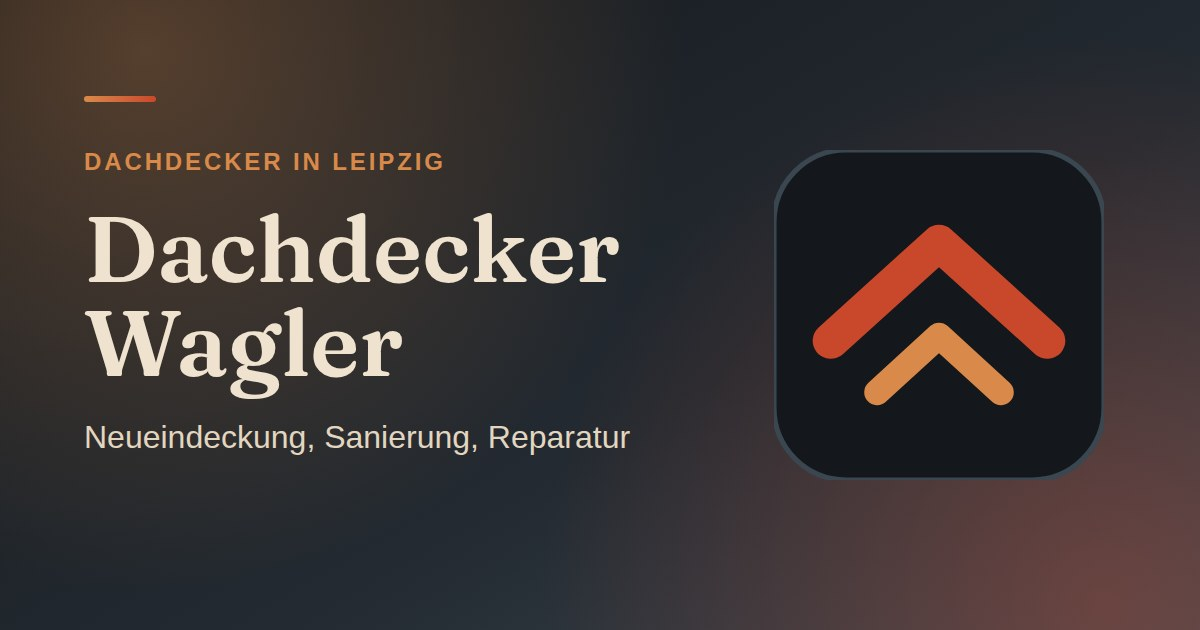
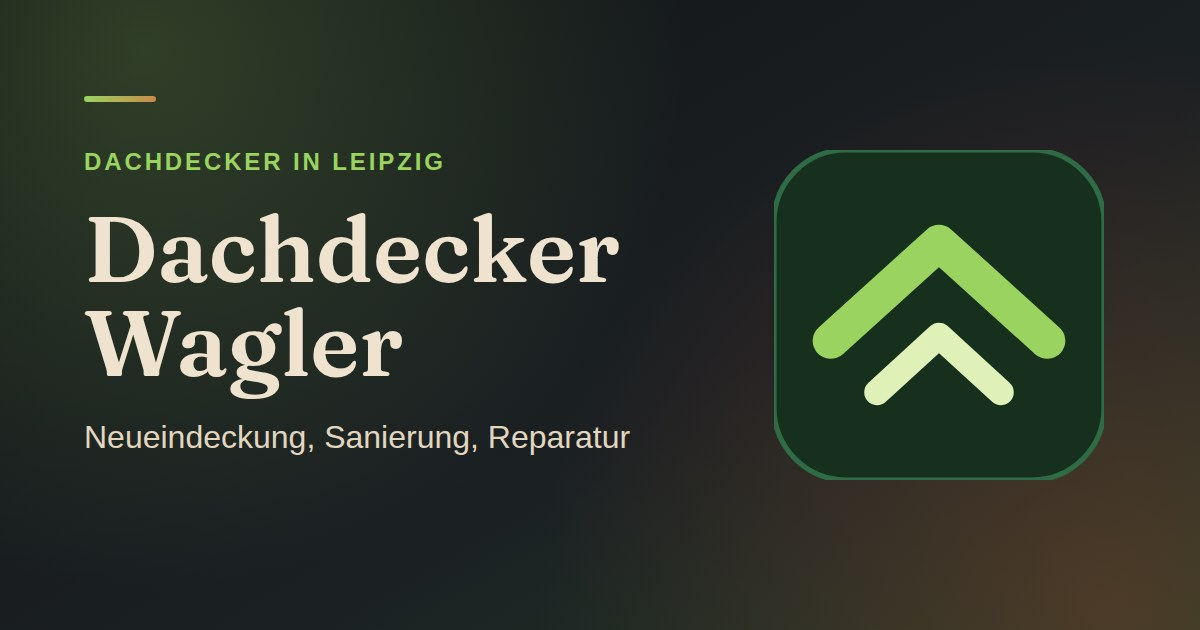
Dachdecker Wagler: interaktive Hausszene, dunkle Haus-Farbwelt mit hellem Grün
Claude-Session: https://claude.ai/code/session_01FxD9XwDGaasw5Yh16VoMkN

diff --git a/kunden/dachdecker-wagler/index.html b/kunden/dachdecker-wagler/index.html
@@ -6,7 +6,7 @@
   <title>Dachdecker Wagler | Dachdecker in Leipzig</title>
   <meta name="description" content="Dachdecker Wagler in Leipzig: Neueindeckung, Dachsanierung, Reparatur, Flachdach und Dachfenster. Jetzt Besichtigung anfragen.">
   <link rel="canonical" href="https://www.dachdecker-wagler.example/">
-  <meta name="theme-color" content="#efe3cf">
+  <meta name="theme-color" content="#14171a">
 
   <link rel="icon" href="/assets/favicon.svg" type="image/svg+xml">
   <link rel="preload" href="/assets/fonts/fraunces-latin-600-normal.woff2" as="font" type="font/woff2" crossorigin>
@@ -21,12 +21,12 @@
   <meta property="og:image" content="https://www.dachdecker-wagler.example/assets/og-image.jpg">
   <meta property="og:image:width" content="1200">
   <meta property="og:image:height" content="630">
-  <meta property="og:image:alt" content="Dachdecker Wagler, Dachdeckerbetrieb in Leipzig, helle Schrift auf Schiefergrau mit zwei Dach-Winkeln in Ziegelrot und Kupfer">
+  <meta property="og:image:alt" content="Dachdecker Wagler, Dachdeckerbetrieb in Leipzig, helle Schrift auf dunklem Grund mit zwei Dach-Winkeln in hellem Grün">
   <meta name="twitter:card" content="summary_large_image">
   <meta name="twitter:title" content="Dachdecker Wagler | Dachdecker in Leipzig">
   <meta name="twitter:description" content="Dachdecker Wagler in Leipzig: Neueindeckung, Dachsanierung, Reparatur, Flachdach und Dachfenster. Jetzt Besichtigung anfragen.">
   <meta name="twitter:image" content="https://www.dachdecker-wagler.example/assets/og-image.jpg">
-  <meta name="twitter:image:alt" content="Dachdecker Wagler, Dachdeckerbetrieb in Leipzig, helle Schrift auf Schiefergrau mit zwei Dach-Winkeln in Ziegelrot und Kupfer">
+  <meta name="twitter:image:alt" content="Dachdecker Wagler, Dachdeckerbetrieb in Leipzig, helle Schrift auf dunklem Grund mit zwei Dach-Winkeln in hellem Grün">
 
   <script type="application/ld+json">
   {
@@ -42,7 +42,7 @@
     "areaServed": { "@type": "City", "name": "Leipzig" }
   }
   </script>
-  <script>document.documentElement.classList.add("js");try{var m=localStorage.getItem("mode");if(!m&&window.matchMedia("(prefers-color-scheme: dark)").matches)m="dark";if(m)document.documentElement.setAttribute("data-mode",m)}catch(e){}</script>
+  <script>document.documentElement.classList.add("js");try{var m=localStorage.getItem("mode");if(!m)m="dark";if(m)document.documentElement.setAttribute("data-mode",m)}catch(e){}</script>
 </head>
 <body>
   <a class="skip" href="#inhalt">Zum Inhalt springen</a>
@@ -66,7 +66,7 @@
   <header class="site-header">
     <div class="wrap">
       <a class="logo" href="/" aria-label="Zur Startseite">
-        <svg viewBox="0 0 64 64" aria-hidden="true" focusable="false"><rect width="64" height="64" rx="14" fill="#14181c"/><path d="M11 37 L32 18 L53 37" fill="none" stroke="#c9482b" stroke-width="7" stroke-linecap="round" stroke-linejoin="round"/><path d="M20 47 L32 36 L44 47" fill="none" stroke="#d98a4a" stroke-width="5" stroke-linecap="round" stroke-linejoin="round"/></svg>
+        <svg viewBox="0 0 64 64" aria-hidden="true" focusable="false"><rect width="64" height="64" rx="14" fill="#16301d"/><path d="M11 37 L32 18 L53 37" fill="none" stroke="#9ad35f" stroke-width="7" stroke-linecap="round" stroke-linejoin="round"/><path d="M20 47 L32 36 L44 47" fill="none" stroke="#dff0b8" stroke-width="5" stroke-linecap="round" stroke-linejoin="round"/></svg>
         <span>
           <span class="logo__name">Dachdecker Wagler</span>
           <span class="logo__sub">Dachdecker in Leipzig</span>
@@ -74,6 +74,7 @@
       </a>
       <nav class="nav" aria-label="Hauptmenü">
         <a class="nav__more" href="#leistungen">Leistungen</a>
+        <a class="nav__more" href="#haus">Haus</a>
         <a class="nav__more" href="#dachaufbau">Dachaufbau</a>
         <a class="nav__more" href="#referenzen">Referenzen</a>
         <a class="nav__more" href="#ablauf">Ablauf</a>
@@ -185,6 +186,25 @@
             <span class="tile__plus" aria-hidden="true"><svg class="icon"><use href="#i-plus"/></svg></span>
           </button>
         </div>
+      </div>
+    </section>
+
+    <!-- Rund ums Haus -->
+    <section class="house-sec" id="haus">
+      <div class="wrap">
+        <div class="section-head reveal">
+          <p class="eyebrow">Rund ums Haus</p>
+          <h2>Wo wir überall helfen.</h2>
+          <p id="house-hint">Berühren Sie ein Bauteil am Haus. Dann sehen Sie, welche Leistungen dazugehören.</p>
+        </div>
+        <div class="roof__grid">
+          <div class="roof__stage reveal">
+            <svg class="hscene" id="hscene" viewBox="0 0 760 520" role="group" aria-label="Haus mit auswählbaren Bauteilen"><defs><linearGradient id="hsky" x1="0" y1="0" x2="0" y2="1"><stop offset="0" stop-color="#1b2530"/><stop offset="0.5" stop-color="#5a4a5c"/><stop offset="1" stop-color="#e39a5b"/></linearGradient><pattern id="rt" width="22" height="14" patternUnits="userSpaceOnUse"><path d="M0 14 q11 -14 22 0" fill="none" stroke="#4d1c11" stroke-width="2" opacity=".6"/></pattern><clipPath id="hclip"><rect width="760" height="520" rx="28"/></clipPath></defs><g clip-path="url(#hclip)"><rect width="760" height="520" fill="url(#hsky)"/><circle cx="650" cy="86" r="62" fill="#f4ead0" opacity=".14"/><circle cx="650" cy="86" r="30" fill="#f4ead0"/><circle cx="80" cy="50" r="2" fill="#fff" opacity=".7"/><circle cx="160" cy="100" r="2" fill="#fff" opacity=".7"/><circle cx="240" cy="40" r="2" fill="#fff" opacity=".7"/><circle cx="330" cy="80" r="2" fill="#fff" opacity=".7"/><circle cx="420" cy="30" r="2" fill="#fff" opacity=".7"/><circle cx="520" cy="70" r="2" fill="#fff" opacity=".7"/><circle cx="560" cy="130" r="2" fill="#fff" opacity=".7"/><circle cx="40" cy="150" r="2" fill="#fff" opacity=".7"/><circle cx="700" cy="170" r="2" fill="#fff" opacity=".7"/><circle cx="610" cy="40" r="2" fill="#fff" opacity=".7"/><path d="M0 400 Q150 340 320 390 T620 380 T760 400 V520 H0Z" fill="#2c4a3a"/><rect y="468" width="760" height="52" fill="#4f8a3f"/><path d="M300 470 L370 470 L420 520 L250 520Z" fill="#a89a82"/><rect x="54" y="366.5" width="12" height="103.5" fill="#5b3f27"/><circle cx="60" cy="327.4" r="69.0" fill="#3f7a3b"/><circle cx="14.0" cy="355.0" r="46.0" fill="#4f8a3f"/><circle cx="106.0" cy="355.0" r="46.0" fill="#4f8a3f"/><circle cx="46.2" cy="304.4" r="36.800000000000004" fill="#7fae5f" opacity=".6"/><rect x="729" y="393.5" width="12" height="76.5" fill="#5b3f27"/><circle cx="735" cy="364.6" r="51.0" fill="#3f7a3b"/><circle cx="701.0" cy="385.0" r="34.0" fill="#4f8a3f"/><circle cx="769.0" cy="385.0" r="34.0" fill="#4f8a3f"/><circle cx="724.8" cy="347.6" r="27.2" fill="#7fae5f" opacity=".6"/><g class="hs-part" data-part="fassade" tabindex="0" role="button" aria-label="Fassade" aria-pressed="false"><rect x="150" y="300" width="370" height="170" fill="#d9c9a5"/><rect x="150" y="452" width="370" height="18" fill="#8d8a82"/><rect x="185" y="345" width="70" height="80" rx="3" fill="#20262b"/><rect x="188" y="348" width="64" height="74" rx="2" fill="#ffd98a"/><line x1="220.0" y1="348" x2="220.0" y2="422" stroke="#20262b" stroke-width="2"/><line x1="188" y1="385.0" x2="252" y2="385.0" stroke="#20262b" stroke-width="2"/><rect x="415" y="345" width="70" height="80" rx="3" fill="#20262b"/><rect x="418" y="348" width="64" height="74" rx="2" fill="#ffd98a"/><line x1="450.0" y1="348" x2="450.0" y2="422" stroke="#20262b" stroke-width="2"/><line x1="418" y1="385.0" x2="482" y2="385.0" stroke="#20262b" stroke-width="2"/><rect x="150" y="300" width="370" height="6" fill="#bfae88"/><g class="hs-pin" transform="translate(168 400)"><circle class="ring" r="10"/><circle r="10" fill="#9ad35f" stroke="#14171a" stroke-width="2.5"/><path d="M0 -4.5V4.5M-4.5 0H4.5" stroke="#14171a" stroke-width="2.6" stroke-linecap="round"/></g></g><g class="hs-part" data-part="flach" tabindex="0" role="button" aria-label="Flachdach am Anbau" aria-pressed="false"><rect x="520" y="372" width="190" height="98" fill="#bba784"/><rect x="545" y="396" width="140" height="74" fill="#8a949c"/><line x1="545" y1="404" x2="685" y2="404" stroke="#6e7880" stroke-width="2"/><line x1="545" y1="416" x2="685" y2="416" stroke="#6e7880" stroke-width="2"/><line x1="545" y1="428" x2="685" y2="428" stroke="#6e7880" stroke-width="2"/><line x1="545" y1="440" x2="685" y2="440" stroke="#6e7880" stroke-width="2"/><line x1="545" y1="452" x2="685" y2="452" stroke="#6e7880" stroke-width="2"/><line x1="545" y1="464" x2="685" y2="464" stroke="#6e7880" stroke-width="2"/><rect x="510" y="358" width="210" height="16" fill="#3b4249"/><rect x="510" y="352" width="210" height="6" fill="#59626a"/><path d="M590 352 a22 14 0 0 1 44 0z" fill="#9fd0e0" stroke="#3b4249" stroke-width="3"/><g class="hs-pin" transform="translate(640 366)"><circle class="ring" r="10"/><circle r="10" fill="#9ad35f" stroke="#14171a" stroke-width="2.5"/><path d="M0 -4.5V4.5M-4.5 0H4.5" stroke="#14171a" stroke-width="2.6" stroke-linecap="round"/></g></g><g class="hs-part" data-part="dach" tabindex="0" role="button" aria-label="Dach" aria-pressed="false"><polygon points="118,302 335,138 552,302" fill="#8a3b2a"/><polygon points="118,302 335,138 552,302" fill="url(#rt)"/><polyline points="118,302 335,138 552,302" fill="none" stroke="#5e2416" stroke-width="7" stroke-linejoin="round"/><g class="hs-pin" transform="translate(470 268)"><circle class="ring" r="10"/><circle r="10" fill="#9ad35f" stroke="#14171a" stroke-width="2.5"/><path d="M0 -4.5V4.5M-4.5 0H4.5" stroke="#14171a" stroke-width="2.6" stroke-linecap="round"/></g></g><g class="hs-part" data-part="gaube" tabindex="0" role="button" aria-label="Dachgaube" aria-pressed="false"><rect x="215" y="236" width="76" height="62" fill="#d9c9a5"/><rect x="232" y="250" width="42" height="40" rx="3" fill="#20262b"/><rect x="235" y="253" width="36" height="34" rx="2" fill="#ffd98a"/><line x1="253.0" y1="253" x2="253.0" y2="287" stroke="#20262b" stroke-width="2"/><line x1="235" y1="270.0" x2="271" y2="270.0" stroke="#20262b" stroke-width="2"/><polygon points="203,238 253,198 303,238" fill="#8a3b2a"/><polygon points="203,238 253,198 303,238" fill="url(#rt)"/><polyline points="203,238 253,198 303,238" fill="none" stroke="#5e2416" stroke-width="5" stroke-linejoin="round"/><g class="hs-pin" transform="translate(253 266)"><circle class="ring" r="10"/><circle r="10" fill="#9ad35f" stroke="#14171a" stroke-width="2.5"/><path d="M0 -4.5V4.5M-4.5 0H4.5" stroke="#14171a" stroke-width="2.6" stroke-linecap="round"/></g></g><g class="hs-part" data-part="fenster" tabindex="0" role="button" aria-label="Dachfenster" aria-pressed="false"><rect x="350" y="214" width="38" height="30" rx="3" fill="#20262b"/><rect x="354" y="218" width="30" height="22" rx="2" fill="#9fd0e0"/><path d="M354 240 L366 218 H374 L362 240Z" fill="#fff" opacity=".45"/><rect x="350" y="256" width="38" height="30" rx="3" fill="#20262b"/><rect x="354" y="260" width="30" height="22" rx="2" fill="#9fd0e0"/><path d="M354 282 L366 260 H374 L362 282Z" fill="#fff" opacity=".45"/><g class="hs-pin" transform="translate(369 236)"><circle class="ring" r="10"/><circle r="10" fill="#9ad35f" stroke="#14171a" stroke-width="2.5"/><path d="M0 -4.5V4.5M-4.5 0H4.5" stroke="#14171a" stroke-width="2.6" stroke-linecap="round"/></g></g><g class="hs-part" data-part="kamin" tabindex="0" role="button" aria-label="Schornstein" aria-pressed="false"><rect x="430" y="168" width="34" height="98" fill="#8f3b2b"/><line x1="430" y1="178" x2="464" y2="178" stroke="#5e2416" stroke-width="2"/><line x1="430" y1="192" x2="464" y2="192" stroke="#5e2416" stroke-width="2"/><line x1="430" y1="206" x2="464" y2="206" stroke="#5e2416" stroke-width="2"/><line x1="430" y1="220" x2="464" y2="220" stroke="#5e2416" stroke-width="2"/><line x1="430" y1="234" x2="464" y2="234" stroke="#5e2416" stroke-width="2"/><line x1="430" y1="248" x2="464" y2="248" stroke="#5e2416" stroke-width="2"/><rect x="424" y="160" width="46" height="12" fill="#3b4249"/><g class="hs-pin" transform="translate(447 214)"><circle class="ring" r="10"/><circle r="10" fill="#9ad35f" stroke="#14171a" stroke-width="2.5"/><path d="M0 -4.5V4.5M-4.5 0H4.5" stroke="#14171a" stroke-width="2.6" stroke-linecap="round"/></g></g><g class="hs-part" data-part="rinne" tabindex="0" role="button" aria-label="Dachrinne" aria-pressed="false"><path d="M112 306 H558" stroke="#aeb7bd" stroke-width="9" stroke-linecap="round"/><rect x="138" y="306" width="9" height="164" fill="#aeb7bd"/><rect x="134" y="460" width="17" height="10" fill="#8d979e"/><g class="hs-pin" transform="translate(520 304)"><circle class="ring" r="10"/><circle r="10" fill="#9ad35f" stroke="#14171a" stroke-width="2.5"/><path d="M0 -4.5V4.5M-4.5 0H4.5" stroke="#14171a" stroke-width="2.6" stroke-linecap="round"/></g></g><g class="hs-part" data-part="vordach" tabindex="0" role="button" aria-label="Vordach und Tür" aria-pressed="false"><rect x="300" y="395" width="70" height="75" rx="4" fill="#7a4b2d"/><rect x="312" y="407" width="46" height="26" rx="2" fill="#ffd98a" opacity=".85"/><circle cx="360" cy="440" r="3" fill="#e3b788"/><polygon points="282,392 335,352 388,392" fill="#8a3b2a"/><polygon points="282,392 335,352 388,392" fill="url(#rt)"/><polyline points="282,392 335,352 388,392" fill="none" stroke="#5e2416" stroke-width="5" stroke-linejoin="round"/><g class="hs-pin" transform="translate(335 370)"><circle class="ring" r="10"/><circle r="10" fill="#9ad35f" stroke="#14171a" stroke-width="2.5"/><path d="M0 -4.5V4.5M-4.5 0H4.5" stroke="#14171a" stroke-width="2.6" stroke-linecap="round"/></g></g><path class="link" d="M0 0 C0 0 0 0 0 0"/></g></svg>
+            <div class="ltabs" id="htabs" role="group" aria-label="Bauteile auswählen"><button type="button" class="ltab" style="--c:#9ad35f" aria-pressed="false"><i></i>Dach</button><button type="button" class="ltab" style="--c:#9ad35f" aria-pressed="false"><i></i>Schornstein</button><button type="button" class="ltab" style="--c:#9ad35f" aria-pressed="false"><i></i>Dachgaube</button><button type="button" class="ltab" style="--c:#9ad35f" aria-pressed="false"><i></i>Dachfenster</button><button type="button" class="ltab" style="--c:#9ad35f" aria-pressed="false"><i></i>Dachrinne</button><button type="button" class="ltab" style="--c:#9ad35f" aria-pressed="false"><i></i>Fassade</button><button type="button" class="ltab" style="--c:#9ad35f" aria-pressed="false"><i></i>Vordach und Tür</button><button type="button" class="ltab" style="--c:#9ad35f" aria-pressed="false"><i></i>Flachdach am Anbau</button></div>
+          </div>
+          <div class="roof__panel reveal" id="house-panel" aria-live="polite"><p class="small">Rund ums Haus</p><h3>Acht Bauteile, ein Betrieb.</h3><p>Vom Dach bis zum Vordach. Wählen Sie ein Bauteil am Haus, dann zeige ich Ihnen, was dazugehört.</p></div>
+        </div>
+        <p class="hnote reveal">Leistungen mit der Marke „Leistung" gehören zu den fünf Hauptarbeiten. Die mit „Beispiel" sind von mir erfunden und zeigen nur, wie die Seite später funktioniert.</p>
       </div>
     </section>
 

diff --git a/kunden/dachdecker-wagler/assets/script.js b/kunden/dachdecker-wagler/assets/script.js
@@ -126,7 +126,7 @@
       modeBtn.setAttribute("aria-label", dark ? "Helle Darstellung einschalten" : "Dunkle Darstellung einschalten");
     }
     var meta = document.querySelector('meta[name="theme-color"]');
-    if (meta) meta.setAttribute("content", dark ? "#101417" : "#efe3cf");
+    if (meta) meta.setAttribute("content", dark ? "#14171a" : "#d6c9b0");
   }
   syncMode();
   if (modeBtn) modeBtn.addEventListener("click", function () {
@@ -410,7 +410,7 @@
       { n: "Sparren und Dämmung", c: "#d9a93a", t: "Das tragende Gerüst", d: "Die Sparren tragen das Dach. Dazwischen sitzt die Dämmung, die Wärme im Haus hält.", works: ["Dachsanierung", "Dachfenster"] },
       { n: "Dampfbremse", c: "#8d99a2", t: "Dampfbremse und Innenausbau", d: "Die Dampfbremse hält feuchte Raumluft aus der Dämmung fern. Innen schließt die Verkleidung den Raum ab.", works: ["Dachsanierung", "Dachfenster"] }
     ];
-    var slabs = $$(".slab", layersSvg), ltabs = $$(".ltab"), panelEl = $("#roof-panel");
+    var slabs = $$(".slab", layersSvg), ltabs = $$("#dachaufbau .ltab"), panelEl = $("#roof-panel");
     var linkEl = $(".link", layersSvg), roofHint = $("#roof-hint");
     if (roofHint) roofHint.textContent = finePointer
       ? "Fahren Sie mit der Maus über eine Schicht. Dann sehen Sie, wofür sie da ist und welche Arbeiten dazugehören."
@@ -455,6 +455,65 @@
       s.addEventListener("keydown", function (e) { if (e.key === "Enter" || e.key === " ") { e.preventDefault(); showLayer(i); } });
     });
     ltabs.forEach(function (t, i) { t.addEventListener("click", function () { showLayer(i); }); });
+  }
+
+  // ---------- Rund ums Haus (interaktive Szene) ----------
+  var hs = $("#hscene");
+  if (hs) {
+    var R = function (t, area, real) { return { t: t, area: area, real: real }; };
+    var hData = [
+      { n: "Dach", ax: 470, ay: 268, d: "Das Dach schützt das ganze Haus. Hier arbeiten wir am häufigsten.", s: [R("Neueindeckung", "Neueindeckung", true), R("Dachsanierung", "Dachsanierung", true), R("Reparatur", "Reparatur", true), R("Moosentfernung", "Reparatur", false)] },
+      { n: "Schornstein", ax: 447, ay: 214, d: "Die Anschlüsse am Schornstein sind eine häufige Schwachstelle für Wasser.", s: [R("Reparatur", "Reparatur", true), R("Schornsteinkopf neu einfassen", "Reparatur", false), R("Anschlussbleche erneuern", "Reparatur", false)] },
+      { n: "Dachgaube", ax: 253, ay: 266, d: "Gauben bringen Platz und Licht unters Dach, haben aber viele Anschlüsse.", s: [R("Dachsanierung", "Dachsanierung", true), R("Gaube neu eindecken", "Dachsanierung", false), R("Gaubenfenster austauschen", "Dachfenster", false)] },
+      { n: "Dachfenster", ax: 369, ay: 236, d: "Dachfenster holen Tageslicht in den Dachraum.", s: [R("Neues Dachfenster einbauen", "Dachfenster", true), R("Altes Fenster austauschen", "Dachfenster", true), R("Verdunkelung nachrüsten", "Dachfenster", false)] },
+      { n: "Dachrinne", ax: 520, ay: 304, d: "Rinne und Fallrohr leiten das Wasser vom Haus weg.", s: [R("Dachrinne montieren", "Reparatur", false), R("Fallrohr erneuern", "Reparatur", false), R("Rinne reinigen", "Reparatur", false)] },
+      { n: "Fassade", ax: 168, ay: 400, d: "Eine dichte Verbindung zwischen Wand und Dach hält Feuchtigkeit draußen.", s: [R("Anschluss Dach und Wand", "Dachsanierung", false), R("Fassadenbekleidung aus Schiefer", "Noch offen", false), R("Wetterschutz an der Giebelwand", "Noch offen", false)] },
+      { n: "Vordach und Tür", ax: 335, ay: 370, d: "Das Vordach schützt den Eingang vor Regen.", s: [R("Reparatur", "Reparatur", true), R("Vordach neu eindecken", "Neueindeckung", false), R("Anschluss am Mauerwerk abdichten", "Reparatur", false)] },
+      { n: "Flachdach am Anbau", ax: 640, ay: 366, d: "Bei Garagen und Anbauten kommt es auf die Abdichtung an.", s: [R("Flachdach abdichten", "Flachdach", true), R("Abdichtung erneuern", "Flachdach", true), R("Dachbegrünung", "Flachdach", false), R("Lichtkuppel einbauen", "Dachfenster", false)] }
+    ];
+    var hParts = ["dach", "kamin", "gaube", "fenster", "rinne", "fassade", "vordach", "flach"].map(function (k) { return $('.hs-part[data-part="' + k + '"]', hs); }), hTabs = $$("#htabs .ltab"), hPanel = $("#house-panel"), hLink = $(".link", hs), hHint = $("#house-hint");
+    if (hHint) hHint.textContent = finePointer
+      ? "Fahren Sie mit der Maus über ein Bauteil am Haus. Dann sehen Sie, welche Leistungen dazugehören."
+      : "Tippen Sie auf ein Bauteil am Haus. Dann sehen Sie, welche Leistungen dazugehören.";
+    var showPart = function (i) {
+      var d = hData[i];
+      hParts.forEach(function (s, k) { s.classList.toggle("is-active", k === i); s.setAttribute("aria-pressed", k === i ? "true" : "false"); });
+      hTabs.forEach(function (t, k) { t.setAttribute("aria-pressed", k === i ? "true" : "false"); });
+      hs.classList.add("has-active");
+      hPanel.innerHTML = "";
+      var box = document.createElement("div"); box.className = "swap";
+      var tag = document.createElement("span"); tag.className = "tag"; tag.textContent = "Bauteil " + (i + 1) + " von " + hData.length;
+      tag.style.setProperty("--c", "#9ad35f"); tag.style.setProperty("--t", "#14171a");
+      var h = document.createElement("h3"); h.textContent = d.n;
+      var p = document.createElement("p"); p.textContent = d.d;
+      var sm = document.createElement("p"); sm.className = "small"; sm.textContent = "Leistungen an diesem Bauteil";
+      var ul = document.createElement("ul"); ul.className = "works";
+      d.s.forEach(function (it, k) {
+        var li = document.createElement("li"), b = document.createElement("button");
+        b.type = "button"; b.className = "work"; b.style.setProperty("--c", it.real ? "#9ad35f" : "#c98b4a"); b.style.setProperty("--i", k);
+        b.innerHTML = "<span></span><span class=\"bd " + (it.real ? "bd--real" : "bd--ex") + "\">" + (it.real ? "Leistung" : "Beispiel") + "</span><svg class=\"icon\" aria-hidden=\"true\"><use href=\"#i-arrow\"/></svg>";
+        b.firstChild.textContent = it.t;
+        b.addEventListener("click", function () {
+          prefill(it.area, "Hallo,\nich interessiere mich für: " + it.t + " (" + d.n + ").\n");
+          var kk = $("#kontakt"); if (kk) kk.scrollIntoView({ behavior: reduceMotion ? "auto" : "smooth" });
+        });
+        li.appendChild(b); ul.appendChild(li);
+      });
+      [tag, h, p, sm, ul].forEach(function (x) { box.appendChild(x); });
+      hPanel.appendChild(box);
+      if (hLink) {
+        hLink.setAttribute("d", "M" + d.ax + " " + d.ay + " C" + (d.ax + 120) + " " + d.ay + " 640 60 760 60");
+        var len = Math.ceil(hLink.getTotalLength()) + 2;
+        hLink.style.setProperty("--len", len);
+        hLink.classList.remove("is-on"); void hLink.getBoundingClientRect(); hLink.classList.add("is-on");
+      }
+    };
+    hParts.forEach(function (s, i) {
+      s.addEventListener("pointerenter", function (e) { if (e.pointerType === "mouse") showPart(i); });
+      s.addEventListener("click", function () { showPart(i); });
+      s.addEventListener("keydown", function (e) { if (e.key === "Enter" || e.key === " ") { e.preventDefault(); showPart(i); } });
+    });
+    hTabs.forEach(function (t, i) { t.addEventListener("click", function () { showPart(i); }); });
   }
 
   // ---------- Referenzen: Filter und Großansicht ----------

diff --git a/kunden/dachdecker-wagler/assets/style.css b/kunden/dachdecker-wagler/assets/style.css
@@ -598,3 +598,60 @@ button.float:hover { background: rgba(255, 255, 255, 0.24); }
 button.float:hover { background: rgba(20, 24, 28, 0.8); }
 .logo__name { white-space: nowrap; }
 @media (max-width: 480px) { .logo__name { font-size: 1rem; } .logo svg { width: 30px; height: 30px; } .site-header .wrap { gap: 8px; } }
+
+
+/* ---------- Farbwelt "Haus": Backstein, Putz, Schiefer, Holz und helles Grün (Logo) ---------- */
+:root {
+  --leaf: #9ad35f; --leaf-deep: #5f9a3a;
+  --night: #14171a; --night-2: #1f2428;
+  --emerald: #2f6b45; --emerald-deep: #1e4a2f; --mint: #9ad35f;
+  --coral: #b8452b; --coral-deep: #8a2f1d;
+  --honey: #c98b4a; --honey-soft: #e3b788;
+  --sand: #d6c9b0; --paper: #e5dbc7;
+  --ink-soft: #3f484f;
+  --link: #1e4a2f;
+  --grad-green: linear-gradient(145deg, #1e4a2f 0%, #2f6b45 100%);
+}
+:root[data-mode="dark"] {
+  --sand: #14171a; --paper: #1b1f22; --card: #252b2f;
+  --ink: #eee5d4; --ink-soft: #b6bec3; --line: rgba(238, 229, 212, 0.2);
+  --night: #0b0d0f; --night-2: #171b1e;
+  --glass: rgba(20, 23, 26, 0.72); --glass-strong: rgba(20, 23, 26, 0.9);
+  --accent-text: #ee8f6e; --link: #9ad35f;
+}
+.progress { background: linear-gradient(90deg, var(--leaf), var(--honey), var(--coral)); }
+.chip-eyebrow i { background: var(--leaf); box-shadow: 0 0 0 4px rgba(154, 211, 95, 0.25); }
+.offer .eyebrow, .contact .eyebrow { color: var(--leaf); }
+.offer::before { background: radial-gradient(900px circle at 85% -10%, rgba(154, 211, 95, 0.16), transparent 55%), radial-gradient(700px circle at 0% 100%, rgba(184, 69, 43, 0.22), transparent 55%); }
+.contact::before { background: radial-gradient(800px circle at 10% 0%, rgba(154, 211, 95, 0.2), transparent 55%), radial-gradient(700px circle at 100% 100%, rgba(201, 139, 74, 0.2), transparent 50%), radial-gradient(500px circle at 70% 10%, rgba(184, 69, 43, 0.2), transparent 50%); }
+.contact__facts strong { color: var(--leaf); }
+.contact__facts a:hover, .contact__facts .tel:hover { color: var(--leaf); }
+.field input:focus, .field select:focus, .field textarea:focus { box-shadow: 0 0 0 4px rgba(154, 211, 95, 0.3); border-color: var(--leaf-deep); }
+.step.is-active::before { background: var(--leaf); border-color: var(--leaf); }
+.sheet__list .icon { color: var(--leaf-deep); }
+:root[data-mode="dark"] .sheet__list .icon, :root[data-mode="dark"] .work .icon { color: var(--leaf); }
+.tile--green .tile__plus { background: var(--leaf); color: #14171a; }
+.theme-toggle:hover { background: rgba(154, 211, 95, 0.25); }
+.nav .nav__pill:hover, .nav .nav__pill.is-current { background: var(--emerald); color: #fff; }
+.logo svg { filter: drop-shadow(0 4px 10px rgba(154, 211, 95, 0.25)); }
+.house-sec { background: var(--sand); }
+.hnote { max-width: 46em; margin: 36px auto 0; text-align: center; color: var(--ink-soft); font-size: 0.92rem; }
+
+/* ---------- Interaktive Hausszene ---------- */
+.hscene { display: block; width: 100%; height: auto; overflow: visible; border-radius: 28px; box-shadow: 0 40px 70px -34px rgba(0, 0, 0, 0.7); }
+.hs-part { cursor: pointer; outline: none; transition: opacity 0.3s ease, filter 0.3s ease; }
+.hscene.has-active .hs-part:not(.is-active) { filter: brightness(0.55) saturate(0.7); }
+.hs-part:hover, .hs-part.is-active { filter: drop-shadow(0 0 7px rgba(154, 211, 95, 0.95)); }
+.hs-part:focus-visible .hs-pin circle:nth-child(2) { stroke: #fff; stroke-width: 4; }
+.hs-pin { transition: transform 0.4s var(--spring); }
+.hs-pin .ring { fill: none; stroke: #9ad35f; stroke-width: 2; transform-box: fill-box; transform-origin: center; animation: pinring 2.6s ease-out infinite; }
+@keyframes pinring { 0% { transform: scale(0.8); opacity: 0.9; } 100% { transform: scale(2.4); opacity: 0; } }
+.hscene .link { fill: none; stroke: #9ad35f; stroke-width: 3.5; stroke-linecap: round; stroke-dasharray: var(--len, 300); stroke-dashoffset: var(--len, 300); transition: stroke-dashoffset 0.9s var(--ease); filter: drop-shadow(0 0 5px #9ad35f); display: none; }
+.hscene .link.is-on { stroke-dashoffset: 0; }
+@media (min-width: 900px) { .hscene .link { display: block; } }
+.work .bd { font-size: 0.68rem; font-weight: 700; letter-spacing: 0.06em; text-transform: uppercase; padding: 2px 8px; border-radius: 999px; }
+.bd--real { background: var(--leaf); color: #14171a; }
+.bd--ex { background: var(--soft-fill); color: var(--ink-soft); }
+@media (min-width: 1140px) { .nav__more { display: inline-block; } }
+@media (max-width: 1139px) { .nav__more { display: none; } }
+@media (prefers-reduced-motion: reduce) { .hs-pin .ring { animation: none; } }

diff --git a/kunden/dachdecker-wagler/datenschutz.html b/kunden/dachdecker-wagler/datenschutz.html
@@ -6,7 +6,7 @@
   <title>Datenschutzerklärung | Dachdecker Wagler</title>
   <meta name="description" content="Datenschutzerklärung von Dachdecker Wagler, Dachdeckerbetrieb in Leipzig: welche Daten beim Besuch der Seite und beim Kontaktformular verarbeitet werden (Beispieltext).">
   <link rel="canonical" href="https://www.dachdecker-wagler.example/datenschutz">
-  <meta name="theme-color" content="#efe3cf">
+  <meta name="theme-color" content="#14171a">
 
   <link rel="icon" href="/assets/favicon.svg" type="image/svg+xml">
   <link rel="preload" href="/assets/fonts/fraunces-latin-600-normal.woff2" as="font" type="font/woff2" crossorigin>
@@ -21,17 +21,17 @@
   <meta property="og:image" content="https://www.dachdecker-wagler.example/assets/og-image.jpg">
   <meta property="og:image:width" content="1200">
   <meta property="og:image:height" content="630">
-  <meta property="og:image:alt" content="Dachdecker Wagler, Dachdeckerbetrieb in Leipzig, helle Schrift auf Schiefergrau mit zwei Dach-Winkeln in Ziegelrot und Kupfer">
+  <meta property="og:image:alt" content="Dachdecker Wagler, Dachdeckerbetrieb in Leipzig, helle Schrift auf dunklem Grund mit zwei Dach-Winkeln in hellem Grün">
   <meta name="twitter:card" content="summary_large_image">
   <meta name="twitter:title" content="Datenschutzerklärung | Dachdecker Wagler">
   <meta name="twitter:description" content="Datenschutzerklärung von Dachdecker Wagler, Dachdeckerbetrieb in Leipzig: welche Daten beim Besuch der Seite und beim Kontaktformular verarbeitet werden (Beispieltext).">
   <meta name="twitter:image" content="https://www.dachdecker-wagler.example/assets/og-image.jpg">
-  <meta name="twitter:image:alt" content="Dachdecker Wagler, Dachdeckerbetrieb in Leipzig, helle Schrift auf Schiefergrau mit zwei Dach-Winkeln in Ziegelrot und Kupfer">
+  <meta name="twitter:image:alt" content="Dachdecker Wagler, Dachdeckerbetrieb in Leipzig, helle Schrift auf dunklem Grund mit zwei Dach-Winkeln in hellem Grün">
 
   <script type="application/ld+json">
   { "@context": "https://schema.org", "@type": "WebPage", "name": "Datenschutzerklärung", "url": "https://www.dachdecker-wagler.example/datenschutz", "inLanguage": "de", "isPartOf": { "@type": "WebSite", "name": "Dachdecker Wagler", "url": "https://www.dachdecker-wagler.example/" } }
   </script>
-  <script>document.documentElement.classList.add("js");try{var m=localStorage.getItem("mode");if(!m&&window.matchMedia("(prefers-color-scheme: dark)").matches)m="dark";if(m)document.documentElement.setAttribute("data-mode",m)}catch(e){}</script>
+  <script>document.documentElement.classList.add("js");try{var m=localStorage.getItem("mode");if(!m)m="dark";if(m)document.documentElement.setAttribute("data-mode",m)}catch(e){}</script>
 </head>
 <body>
   <a class="skip" href="#inhalt">Zum Inhalt springen</a>
@@ -40,7 +40,7 @@
   <header class="site-header">
     <div class="wrap">
       <a class="logo" href="/" aria-label="Zur Startseite">
-        <svg viewBox="0 0 64 64" aria-hidden="true" focusable="false"><rect width="64" height="64" rx="14" fill="#14181c"/><path d="M11 37 L32 18 L53 37" fill="none" stroke="#c9482b" stroke-width="7" stroke-linecap="round" stroke-linejoin="round"/><path d="M20 47 L32 36 L44 47" fill="none" stroke="#d98a4a" stroke-width="5" stroke-linecap="round" stroke-linejoin="round"/></svg>
+        <svg viewBox="0 0 64 64" aria-hidden="true" focusable="false"><rect width="64" height="64" rx="14" fill="#16301d"/><path d="M11 37 L32 18 L53 37" fill="none" stroke="#9ad35f" stroke-width="7" stroke-linecap="round" stroke-linejoin="round"/><path d="M20 47 L32 36 L44 47" fill="none" stroke="#dff0b8" stroke-width="5" stroke-linecap="round" stroke-linejoin="round"/></svg>
         <span>
           <span class="logo__name">Dachdecker Wagler</span>
           <span class="logo__sub">Dachdecker in Leipzig</span>
@@ -48,6 +48,7 @@
       </a>
       <nav class="nav" aria-label="Hauptmenü">
         <a class="nav__more" href="/#leistungen">Leistungen</a>
+        <a class="nav__more" href="/#haus">Haus</a>
         <a class="nav__more" href="/#dachaufbau">Dachaufbau</a>
         <a class="nav__more" href="/#referenzen">Referenzen</a>
         <a class="nav__more" href="/#ablauf">Ablauf</a>

diff --git a/kunden/dachdecker-wagler/impressum.html b/kunden/dachdecker-wagler/impressum.html
@@ -6,7 +6,7 @@
   <title>Impressum | Dachdecker Wagler</title>
   <meta name="description" content="Impressum und Anbieterkennzeichnung von Dachdecker Wagler, Dachdeckerbetrieb in Leipzig (Beispielangaben).">
   <link rel="canonical" href="https://www.dachdecker-wagler.example/impressum">
-  <meta name="theme-color" content="#efe3cf">
+  <meta name="theme-color" content="#14171a">
 
   <link rel="icon" href="/assets/favicon.svg" type="image/svg+xml">
   <link rel="preload" href="/assets/fonts/fraunces-latin-600-normal.woff2" as="font" type="font/woff2" crossorigin>
@@ -21,17 +21,17 @@
   <meta property="og:image" content="https://www.dachdecker-wagler.example/assets/og-image.jpg">
   <meta property="og:image:width" content="1200">
   <meta property="og:image:height" content="630">
-  <meta property="og:image:alt" content="Dachdecker Wagler, Dachdeckerbetrieb in Leipzig, helle Schrift auf Schiefergrau mit zwei Dach-Winkeln in Ziegelrot und Kupfer">
+  <meta property="og:image:alt" content="Dachdecker Wagler, Dachdeckerbetrieb in Leipzig, helle Schrift auf dunklem Grund mit zwei Dach-Winkeln in hellem Grün">
   <meta name="twitter:card" content="summary_large_image">
   <meta name="twitter:title" content="Impressum | Dachdecker Wagler">
   <meta name="twitter:description" content="Impressum und Anbieterkennzeichnung von Dachdecker Wagler, Dachdeckerbetrieb in Leipzig (Beispielangaben).">
   <meta name="twitter:image" content="https://www.dachdecker-wagler.example/assets/og-image.jpg">
-  <meta name="twitter:image:alt" content="Dachdecker Wagler, Dachdeckerbetrieb in Leipzig, helle Schrift auf Schiefergrau mit zwei Dach-Winkeln in Ziegelrot und Kupfer">
+  <meta name="twitter:image:alt" content="Dachdecker Wagler, Dachdeckerbetrieb in Leipzig, helle Schrift auf dunklem Grund mit zwei Dach-Winkeln in hellem Grün">
 
   <script type="application/ld+json">
   { "@context": "https://schema.org", "@type": "WebPage", "name": "Impressum", "url": "https://www.dachdecker-wagler.example/impressum", "inLanguage": "de", "isPartOf": { "@type": "WebSite", "name": "Dachdecker Wagler", "url": "https://www.dachdecker-wagler.example/" } }
   </script>
-  <script>document.documentElement.classList.add("js");try{var m=localStorage.getItem("mode");if(!m&&window.matchMedia("(prefers-color-scheme: dark)").matches)m="dark";if(m)document.documentElement.setAttribute("data-mode",m)}catch(e){}</script>
+  <script>document.documentElement.classList.add("js");try{var m=localStorage.getItem("mode");if(!m)m="dark";if(m)document.documentElement.setAttribute("data-mode",m)}catch(e){}</script>
 </head>
 <body>
   <a class="skip" href="#inhalt">Zum Inhalt springen</a>
@@ -40,7 +40,7 @@
   <header class="site-header">
     <div class="wrap">
       <a class="logo" href="/" aria-label="Zur Startseite">
-        <svg viewBox="0 0 64 64" aria-hidden="true" focusable="false"><rect width="64" height="64" rx="14" fill="#14181c"/><path d="M11 37 L32 18 L53 37" fill="none" stroke="#c9482b" stroke-width="7" stroke-linecap="round" stroke-linejoin="round"/><path d="M20 47 L32 36 L44 47" fill="none" stroke="#d98a4a" stroke-width="5" stroke-linecap="round" stroke-linejoin="round"/></svg>
+        <svg viewBox="0 0 64 64" aria-hidden="true" focusable="false"><rect width="64" height="64" rx="14" fill="#16301d"/><path d="M11 37 L32 18 L53 37" fill="none" stroke="#9ad35f" stroke-width="7" stroke-linecap="round" stroke-linejoin="round"/><path d="M20 47 L32 36 L44 47" fill="none" stroke="#dff0b8" stroke-width="5" stroke-linecap="round" stroke-linejoin="round"/></svg>
         <span>
           <span class="logo__name">Dachdecker Wagler</span>
           <span class="logo__sub">Dachdecker in Leipzig</span>
@@ -48,6 +48,7 @@
       </a>
       <nav class="nav" aria-label="Hauptmenü">
         <a class="nav__more" href="/#leistungen">Leistungen</a>
+        <a class="nav__more" href="/#haus">Haus</a>
         <a class="nav__more" href="/#dachaufbau">Dachaufbau</a>
         <a class="nav__more" href="/#referenzen">Referenzen</a>
         <a class="nav__more" href="/#ablauf">Ablauf</a>

diff --git a/notes/2026-10-02.md b/notes/2026-10-02.md
@@ -55,3 +55,10 @@
 - Besonderheit: interaktiver Dachaufbau (5 Schichten, Linie zur Beschreibung, Leistungen füllen das Formular vor), Referenzen-Galerie mit Filter und Großansicht.
 - robots.txt sperrt die Indexierung, bis echte Angaben da sind. Roter Entwurfshinweis oben auf jeder Seite (draftbar) vor Veröffentlichung entfernen.
 - Vor einer Veröffentlichung nötig: schriftliche Zustimmung, echte Angaben (Impressum, Kammer, Kontakt), Rechte an allen Bildern, echte Domain, Texte prüfen lassen.
+
+## Nachtrag 4: Dachdecker Wagler, Hausszene und Farbwelt
+- Neuer Abschnitt "Rund ums Haus": gezeichnetes Haus mit 8 auswählbaren Bauteilen (Dach, Schornstein, Dachgaube, Dachfenster, Dachrinne, Fassade, Vordach, Flachdach am Anbau).
+  Beim Anwählen erscheinen Leistungen: "Leistung" = eine der fünf Hauptarbeiten, "Beispiel" = von Claude erfunden. Ein Klick füllt das Formular vor.
+- Farbwelt: standardmäßig dunkel (Schalter oben rechts für hell), Hausfarben (Backstein, Putzbeige, Schiefer, Holz/Kupfer) und helles Grün (#9ad35f) passend zum grünen Firmenlogo.
+  Das Logo (selbst gezeichnet, fiktiv) ist jetzt grün. Das echte Logo des Betriebs kennen wir nicht und haben es nicht verwendet.
+- Offen: Echte Leistungen des Betriebs abfragen, Beispiel-Leistungen streichen oder ersetzen.
